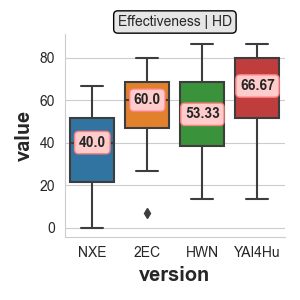
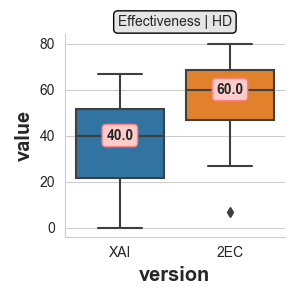
Updates to readme
Updates to readme

diff --git a/user_study/results/result_analyser.py b/user_study/results/result_analyser.py
@@ -7,7 +7,7 @@ import math
 import copy
 
 VERSIONS_TO_INCLUDE = [
-	'NXE',
+	'XAI',
 	'2EC',
 	'HWN',
 	'YAI4Hu',
@@ -15,19 +15,19 @@ VERSIONS_TO_INCLUDE = [
 MERGE_ALL_VERSIONS = False
 
 TASK_TO_CONSIDER = [
-	'CA',
+	# 'CA',
 	'HD'
 ]
 
 TASK_VERSION_TO_FILENAME = {
 	'CA': {
-		'NXE': 'CA-1',
+		'XAI': 'CA-1',
 		'2EC': 'CA-2',
 		'HWN': 'CA-3',
 		'YAI4Hu': 'CA-4',
 	},
 	'HD': {
-		'NXE': 'HD-1',
+		'XAI': 'HD-1',
 		'2EC': 'HD-2',
 		'HWN': 'HD-3',
 		'YAI4Hu': 'HD-4',

diff --git a/README.md b/README.md
@@ -20,8 +20,8 @@ Regardless of the tool for explaining that we adopt, or the direction we take to
 This project has been tested on Debian 9 and macOS Mojave 10.14 with Python 3.7.9. 
 
 The file system of this repository is organised as follows:
-- In the [user_study](user_study) directory it is possible to find the results of the user studies discussed in the 2 aforementioned papers.
-- The [code](code) contains the code of 8 different explainers: 4 for the Heart Disease Predictor and 4 for the Credit Approval System. Within each directory it is possible to find a "setup.sh" script to install the software. To run an explainer, execute the following command ```./setup.sh port_num``` where port_num is the number of the port you want the explainer to available on. Once you have ran the "server.sh" script, you access the explainer through your browser at http://localhost:port_num (remember to replace the string port_num with the correct port number you have chosen).
+- In folder [user_study](user_study) it is possible to find the results of the user studies discussed in the 2 aforementioned papers.
+- The folder [code](code) contains the code of 8 different explainers: 4 for the Heart Disease Predictor and 4 for the Credit Approval System. Within each directory it is possible to find a "setup.sh" script to install the software. To run an explainer, execute the following command ```./server.sh port_num``` where port_num is the number of the port you want the explainer to available on. After running the "server.sh" script, you can access the explainer through your browser at http://localhost:port_num (remember to replace the string port_num with the correct port number you have chosen).
 
 **N.B.** Before being able to run the setup.sh scripts you have to install: virtualenv, python3-dev, python3-pip and make. 
 
